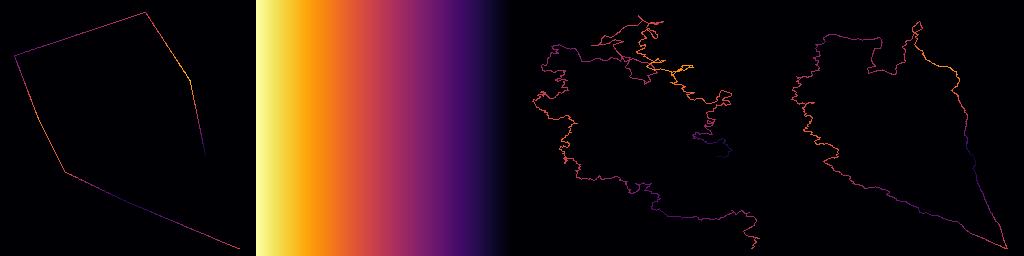
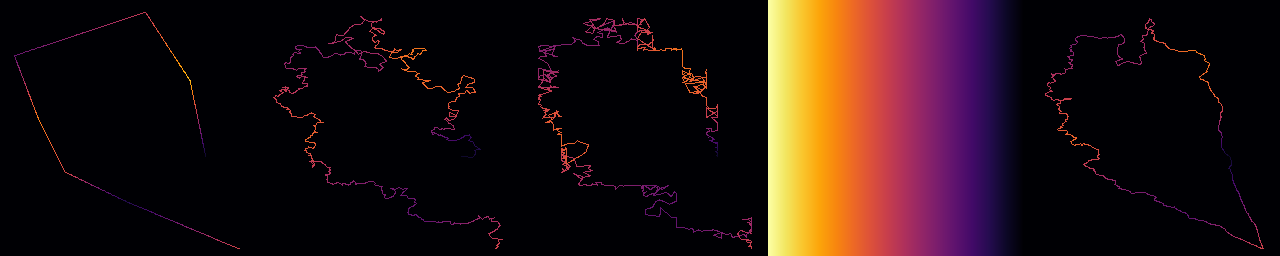
feat: add bounded option to path fractalize (#416)

diff --git a/tests/src/test_path_fractalize.cpp b/tests/src/test_path_fractalize.cpp
@@ -1,0 +1,122 @@
+#include "highmap.hpp"
+
+#include <gtest/gtest.h>
+
+using namespace hmap;
+
+TEST(PathFractalize, BoundedWithinSingleEdgeBoundingBox)
+{
+  Point p1(0.f, 0.f);
+  Point p2(10.f, 10.f);
+  Path  path({p1, p2});
+
+  int           iterations = 5;
+  std::uint32_t seed = 42;
+  float         sigma = 0.5f;
+
+  Path result_bounded = fractalize(path,
+                                   iterations,
+                                   seed,
+                                   sigma,
+                                   0,
+                                   1.f,
+                                   nullptr,
+                                   {0.f, 10.f, 0.f, 10.f},
+                                   true);
+
+  for (const auto &pt : result_bounded.points)
+  {
+    EXPECT_GE(pt.x, 0.f);
+    EXPECT_LE(pt.x, 10.f);
+    EXPECT_GE(pt.y, 0.f);
+    EXPECT_LE(pt.y, 10.f);
+  }
+}
+
+TEST(PathFractalize, BoundedMultiEdgePath)
+{
+  // Edge 0: (0, 0) -> (5, 10), bbox = [0, 5] x [0, 10]
+  // Edge 1: (5, 10) -> (10, 0), bbox = [5, 10] x [0, 10]
+  Path path({Point(0.f, 0.f), Point(5.f, 10.f), Point(10.f, 0.f)});
+
+  int           iterations = 4;
+  std::uint32_t seed = 99;
+  float         sigma = 0.5f;
+
+  Path result = fractalize(path,
+                           iterations,
+                           seed,
+                           sigma,
+                           0,
+                           1.f,
+                           nullptr,
+                           {0.f, 10.f, 0.f, 10.f},
+                           true);
+
+  // At iteration `it`, each initial edge is subdivided into 2^it segments,
+  // having (2^it + 1) points. Total points for 2 open edges = 2 * 2^it + 1 = 2
+  // * 16 + 1 = 33 points.
+  size_t points_per_edge = size_t(1) << iterations;
+
+  for (size_t i = 0; i <= points_per_edge; ++i)
+  {
+    const auto &pt = result.points[i];
+    EXPECT_GE(pt.x, 0.f);
+    EXPECT_LE(pt.x, 5.f);
+    EXPECT_GE(pt.y, 0.f);
+    EXPECT_LE(pt.y, 10.f);
+  }
+
+  for (size_t i = points_per_edge; i < result.points.size(); ++i)
+  {
+    const auto &pt = result.points[i];
+    EXPECT_GE(pt.x, 5.f);
+    EXPECT_LE(pt.x, 10.f);
+    EXPECT_GE(pt.y, 0.f);
+    EXPECT_LE(pt.y, 10.f);
+  }
+}
+
+TEST(PathFractalize, DefaultUnboundedBehavior)
+{
+  Point p1(0.f, 0.f);
+  Point p2(10.f, 0.f);
+  Path  path({p1, p2});
+
+  int           iterations = 3;
+  std::uint32_t seed = 123;
+  float         sigma = 0.5f;
+
+  // Unbounded: perpendicular displacement will generate points with non-zero y
+  Path result_unbounded = fractalize(path, iterations, seed, sigma);
+
+  bool has_non_zero_y = false;
+  for (const auto &pt : result_unbounded.points)
+  {
+    if (std::abs(pt.y) > 1e-4f)
+    {
+      has_non_zero_y = true;
+      break;
+    }
+  }
+  EXPECT_TRUE(has_non_zero_y);
+
+  // Bounded: clamped to min(p1.y, p2.y) = 0 and max(p1.y, p2.y) = 0, so all y
+  // must remain 0
+  Path result_bounded = fractalize(path,
+                                   iterations,
+                                   seed,
+                                   sigma,
+                                   0,
+                                   1.f,
+                                   nullptr,
+                                   {0.f, 10.f, 0.f, 0.f},
+                                   true);
+
+  for (const auto &pt : result_bounded.points)
+  {
+    EXPECT_NEAR(pt.y, 0.f, 1e-5f);
+    EXPECT_GE(pt.x, 0.f);
+    EXPECT_LE(pt.x, 10.f);
+  }
+}

diff --git a/HighMap/src/geometry/path_functions.cpp b/HighMap/src/geometry/path_functions.cpp
@@ -250,12 +250,39 @@ Path fractalize(const Path   &path,
                 int           orientation,
                 float         persistence,
                 Array        *p_ctrl_array,
-                glm::vec4     bbox)
+                glm::vec4     bbox,
+                bool          bounded)
 {
   Path new_path = path;
 
   std::mt19937                    gen(seed);
   std::normal_distribution<float> dis(0.f, 1.f);
+
+  struct EdgeBBox
+  {
+    float min_x, max_x, min_y, max_y;
+  };
+  std::vector<EdgeBBox> initial_bboxes;
+
+  if (bounded)
+  {
+    size_t n_init = path.size();
+    size_t end_init = path.is_closed() ? n_init : (n_init > 0 ? n_init - 1 : 0);
+    initial_bboxes.reserve(end_init);
+
+    for (size_t i = 0; i < end_init; ++i)
+    {
+      size_t      inext = (i + 1) % n_init;
+      const auto &p1 = path.points[i];
+      const auto &p2 = path.points[inext];
+      initial_bboxes.push_back({
+          std::min(p1.x, p2.x),
+          std::max(p1.x, p2.x),
+          std::min(p1.y, p2.y),
+          std::max(p1.y, p2.y),
+      });
+    }
+  }
 
   for (int it = 0; it < iterations; it++)
   {
@@ -286,6 +313,17 @@ Path fractalize(const Path   &path,
                             new_path.points[knext],
                             orientation,
                             amp);
+
+      if (bounded && !initial_bboxes.empty())
+      {
+        size_t edge_idx = k >> it;
+        if (edge_idx < initial_bboxes.size())
+        {
+          const auto &ibox = initial_bboxes[edge_idx];
+          pnew.x = std::clamp(pnew.x, ibox.min_x, ibox.max_x);
+          pnew.y = std::clamp(pnew.y, ibox.min_y, ibox.max_y);
+        }
+      }
 
       new_points.push_back(new_path.points[k]);
       new_points.push_back(pnew);

diff --git a/examples/ex_path_fractalize/ex_path_fractalize.cpp b/examples/ex_path_fractalize/ex_path_fractalize.cpp
@@ -24,18 +24,33 @@ int main(void)
   float sigma = 0.3f;
   path.resample_uniform(); // to ensure a "uniform" output
 
-  // --- fractalize, with and without control function
-
-  hmap::Path pn = path;
-  hmap::Path pc = path;
-
-  pn = hmap::fractalize(pn, iterations, seed, sigma);
-  hmap::Array z3 = hmap::Array(shape);
-  pn.to_array(z3, bbox);
+  // --- fractalize, standard, bounded, and with control function
 
   int   orientation = 0;
   float persistence = 1.f;
 
+  // 1. Standard unbounded fractalize
+  hmap::Path pn = path;
+  pn = hmap::fractalize(pn, iterations, seed, sigma);
+  hmap::Array z3 = hmap::Array(shape);
+  pn.to_array(z3, bbox);
+
+  // 2. Bounded fractalize
+  hmap::Path pb = path;
+  pb = hmap::fractalize(pb,
+                        iterations,
+                        seed,
+                        2.f * sigma, // push amplitude
+                        orientation,
+                        persistence,
+                        nullptr,
+                        bbox,
+                        true);
+  hmap::Array z5 = hmap::Array(shape);
+  pb.to_array(z5, bbox);
+
+  // 3. Control function modulated fractalize (closed path)
+  hmap::Path pc = path;
   pc.set_closed(true);
   pc = hmap::fractalize(pc,
                         iterations,
@@ -49,6 +64,6 @@ int main(void)
   hmap::Array z4 = pc.to_array(shape, bbox);
 
   hmap::export_banner_png("ex_path_fractalize.png",
-                          {z1, z_control, z3, z4},
+                          {z1, z3, z5, z_control, z4},
                           hmap::Cmap::INFERNO);
 }

diff --git a/HighMap/include/highmap/geometry/path.hpp b/HighMap/include/highmap/geometry/path.hpp
@@ -627,6 +627,9 @@ Path decimate_vw(const Path &path, int n_points_target = 3);
  *                      displacement amplitude.
  * @param bbox          Bounding box that defines the valid area for the control
  *                      field's influence.
+ * @param bounded       If true, clamps each newly displaced midpoint to the
+ *                      bounding box defined by the initial edge it belongs to.
+ *                      Defaults to false.
  *
  * **Example**
  * @include ex_path_fractalize.cpp
@@ -641,7 +644,8 @@ Path fractalize(const Path   &path,
                 int           orientation = 0,
                 float         persistence = 1.f,
                 Array        *p_control_field = nullptr,
-                glm::vec4     bbox = {0.f, 1.f, 0.f, 1.f});
+                glm::vec4     bbox = {0.f, 1.f, 0.f, 1.f},
+                bool          bounded = false);
 
 /**
  * @brief Inflate (offset) a path along its normals using curvature.
